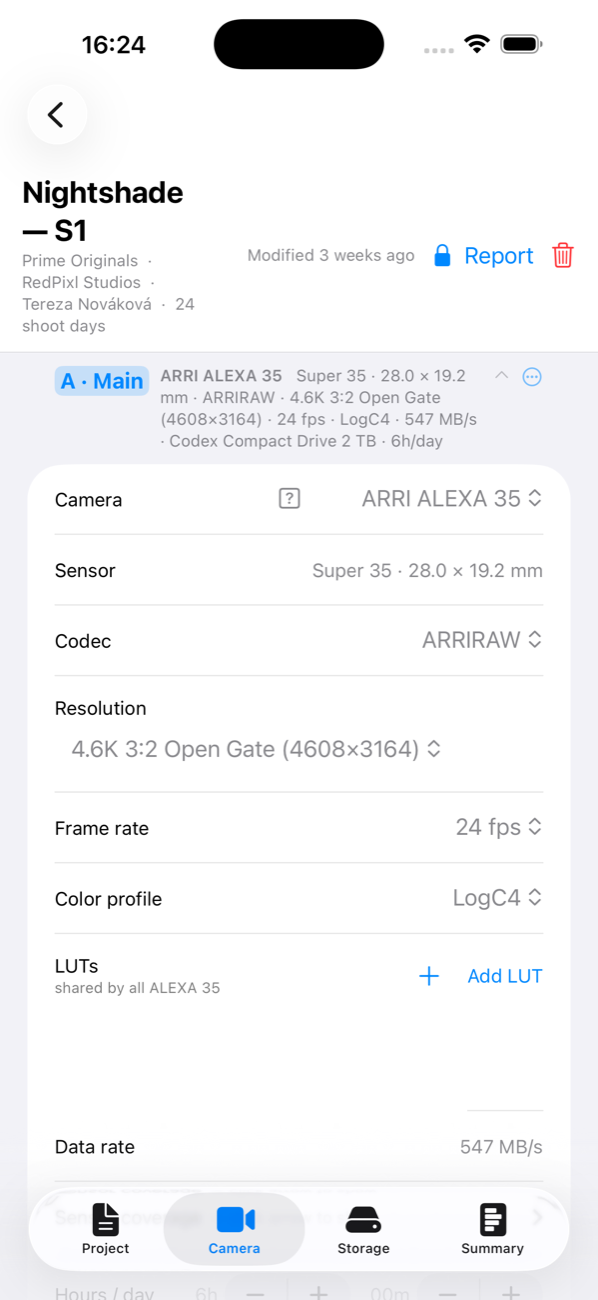
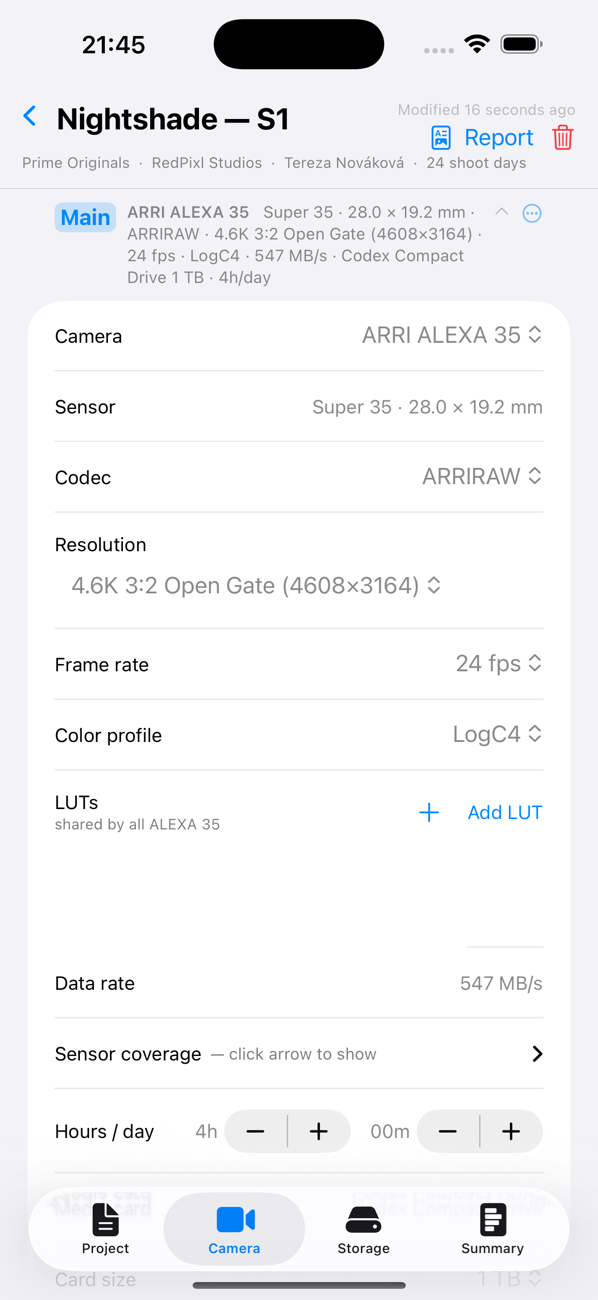
Update copy for iPhone launch, refresh iPhone screenshots
iPad and iPhone are both now live on the App Store — replace "launching
soon" copy throughout with "available now," and update the CTA button
text since it's a single universal listing, not Mac-only. iPhone
screenshots were stale (pre iPhone-UI-polish); recaptured from the
current build.

diff --git a/index.html b/index.html
@@ -4,20 +4,20 @@
 <meta charset="utf-8">
 <meta name="viewport" content="width=device-width, initial-scale=1">
 <title>DIT Media Calculator — Media &amp; Storage Estimator for Film &amp; TV</title>
-<meta name="description" content="DIT Media Calculator is a native app for Mac, iPad and iPhone that estimates media and storage for film &amp; TV shoots — camera originals, proxies, dailies &amp; editorial transcodes, cloud storage and upload times, memory cards, shuttle drives, on-set backup and LTO archive — and exports print-ready PDF reports. Available now on the Mac App Store — iPad &amp; iPhone launching soon.">
+<meta name="description" content="DIT Media Calculator is a native app for Mac, iPad and iPhone that estimates media and storage for film &amp; TV shoots — camera originals, proxies, dailies &amp; editorial transcodes, cloud storage and upload times, memory cards, shuttle drives, on-set backup and LTO archive — and exports print-ready PDF reports. Available now on Mac, iPad and iPhone.">
 <link rel="canonical" href="https://ditmediacalculator.com/">
 <meta name="theme-color" content="#2a70f4">
 
 <!-- Open Graph / social -->
 <meta property="og:type" content="website">
 <meta property="og:title" content="DIT Media Calculator — Media &amp; Storage Estimator for Film &amp; TV">
-<meta property="og:description" content="Plan camera originals, proxies, dailies &amp; editorial transcodes, cloud storage, upload times, cards, drives, backup and LTO archive — and export clean PDF reports. Available now on the Mac App Store; iPad &amp; iPhone coming soon.">
+<meta property="og:description" content="Plan camera originals, proxies, dailies &amp; editorial transcodes, cloud storage, upload times, cards, drives, backup and LTO archive — and export clean PDF reports. Available now on Mac, iPad and iPhone.">
 <meta property="og:url" content="https://ditmediacalculator.com/">
 <meta property="og:image" content="https://ditmediacalculator.com/icon.png">
 <meta property="og:image:alt" content="DIT Media Calculator app icon">
 <meta name="twitter:card" content="summary">
 <meta name="twitter:title" content="DIT Media Calculator — for Film &amp; TV">
-<meta name="twitter:description" content="Media &amp; storage planning for DITs, camera departments and post houses. Available now on the Mac App Store; iPad &amp; iPhone coming soon.">
+<meta name="twitter:description" content="Media &amp; storage planning for DITs, camera departments and post houses. Available now on Mac, iPad and iPhone.">
 <meta name="twitter:image" content="https://ditmediacalculator.com/icon.png">
 
 <link rel="icon" type="image/png" href="icon.png">
@@ -152,8 +152,8 @@
     <h1>DIT&nbsp;Media&nbsp;Calculator<br><span class="grad">plan every byte of your shoot</span></h1>
     <p class="tagline">A native app for Mac, iPad and iPhone that estimates media &amp; storage for film and TV
       productions — from camera originals to LTO archive — and exports clean, print-ready PDF reports.</p>
-    <p class="store">🍎 Available now on the Mac&nbsp;App&nbsp;Store — iPad &amp; iPhone launching soon</p>
-    <a class="cta" href="https://apps.apple.com/app/dit-media-calculator/id6791876002">Download on the Mac App Store →</a>
+    <p class="store">🍎 Available now on Mac, iPad &amp; iPhone</p>
+    <a class="cta" href="https://apps.apple.com/app/dit-media-calculator/id6791876002">Download on the App Store →</a>
     <a class="cta secondary" href="#example">See an example plan →</a>
     <a class="cta secondary" href="https://github.com/jirivatka/DIT-Media-Calculator-Support/discussions">Join the community &amp; get updates →</a>
   </div>
@@ -293,7 +293,7 @@
         <figcaption class="ex-cap">Project, team, schedule and contacts — everything that flows into the PDF report.</figcaption>
       </figure>
     </div>
-    <p class="ex-ipadlead">Available now on Mac — and <strong>coming to iPad &amp; iPhone</strong>.</p>
+    <p class="ex-ipadlead">Available now on Mac, <strong>iPad &amp; iPhone</strong>.</p>
     <p class="ex-device">On iPad</p>
     <div class="ex-ipadrow">
       <figure><img src="shot-ipad-camera.png" alt="Camera &amp; Audio on iPad" loading="lazy"><figcaption class="ex-cap">Cameras &amp; sound</figcaption></figure>
@@ -440,8 +440,8 @@
     <img class="soon-icon" src="icon.png" width="88" height="88" alt="DIT Media Calculator app icon">
     <p class="eyebrow">Download</p>
     <h2>Get DIT Media Calculator</h2>
-    <p class="sub">Available now on the Mac App Store. The iPad and iPhone versions are launching soon.</p>
-    <a class="cta" href="https://apps.apple.com/app/dit-media-calculator/id6791876002">Download on the Mac App Store →</a>
+    <p class="sub">Available now on the Mac App Store, iPad and iPhone.</p>
+    <a class="cta" href="https://apps.apple.com/app/dit-media-calculator/id6791876002">Download on the App Store →</a>
 
     <p class="eyebrow" style="margin-top:46px">Also from RedPixl</p>
     <img src="cq-icon.png" width="66" height="66" alt="Checkpoint QC app icon" style="border-radius:15px;display:block;margin:10px auto 14px;box-shadow:0 12px 30px rgba(20,40,80,.22)">
@@ -456,7 +456,7 @@
   <div class="wrap">
     <strong>DIT Media Calculator</strong> — media &amp; storage estimator for film &amp; TV.<br>
     <a href="https://github.com/jirivatka/DIT-Media-Calculator-Support">Support &amp; community</a> · <a href="/privacy.html">Privacy</a>
-    <p class="fnote">Estimates use published, approximate data rates. macOS 14+ / iPadOS &amp; iOS (coming soon).</p>
+    <p class="fnote">Estimates use published, approximate data rates. macOS 14+ / iPadOS &amp; iOS.</p>
     <p class="fnote">Also from RedPixl: <a href="https://checkpointqc.com">Checkpoint&nbsp;QC</a> — delivery-spec checker &amp; QC for film &amp; TV, now on the Mac&nbsp;App&nbsp;Store.</p>
     <p class="fnote">© 2026 RedPixl s.r.o. · <a href="https://www.redpixl.pictures">www.redpixl.pictures</a></p>
   </div>
